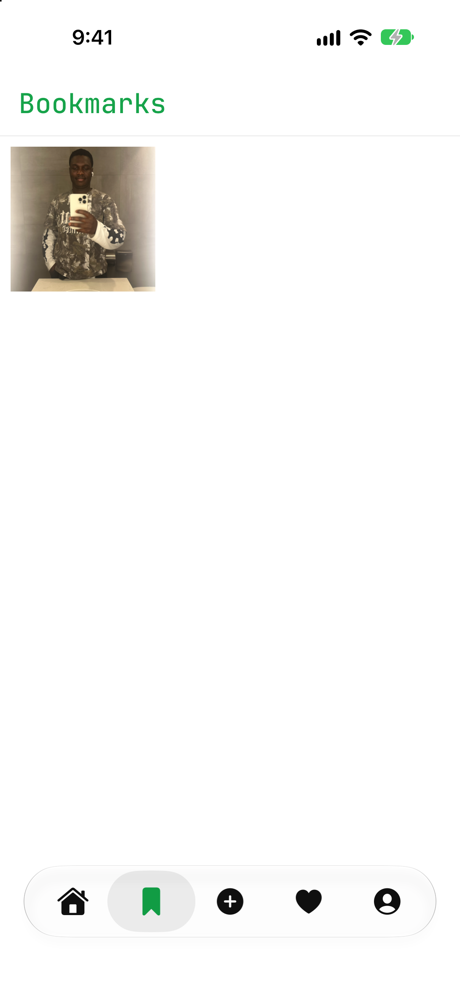
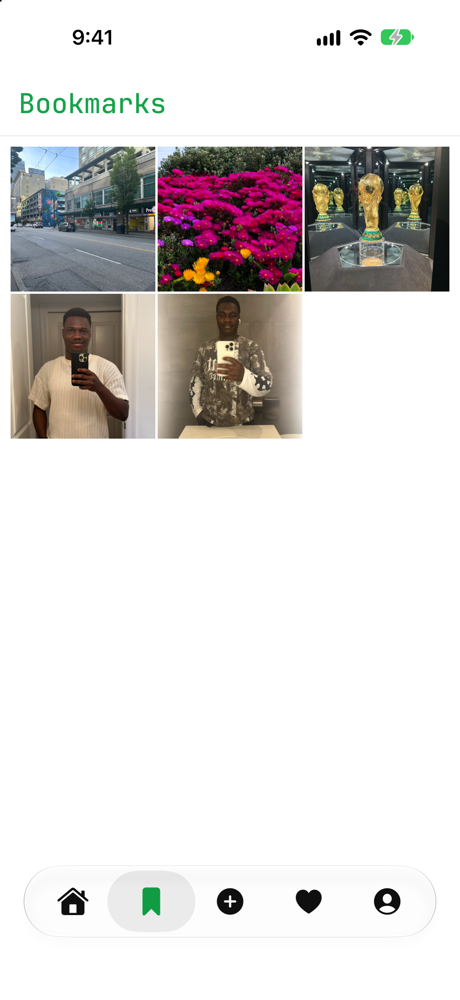
Update README screenshots and add story viewer

Changed region(s): [[0.0, 0.124, 1.0, 0.465]]

diff --git a/README.md b/README.md
@@ -8,9 +8,9 @@ A cross-platform social media app built with React Native, Expo and TypeScript. 
 | :---: | :---: | :---: |
 | <img src="assets/screenshots/feed.png" width="250" alt="Feed with stories and posts" /> | <img src="assets/screenshots/notifications.png" width="250" alt="Notifications for likes, comments and follows" /> | <img src="assets/screenshots/profile.png" width="250" alt="User profile with posts grid" /> |
 
-| Bookmarks | Dark mode |
-| :---: | :---: |
-| <img src="assets/screenshots/bookmarks.png" width="250" alt="Saved posts" /> | <img src="assets/screenshots/profile-dark.png" width="250" alt="Profile in dark mode" /> |
+| Stories | Bookmarks | Dark mode |
+| :---: | :---: | :---: |
+| <img src="assets/screenshots/story.png" width="250" alt="Story viewer" /> | <img src="assets/screenshots/bookmarks.png" width="250" alt="Saved posts" /> | <img src="assets/screenshots/profile-dark.png" width="250" alt="Profile in dark mode" /> |
 
 ## Features
 
